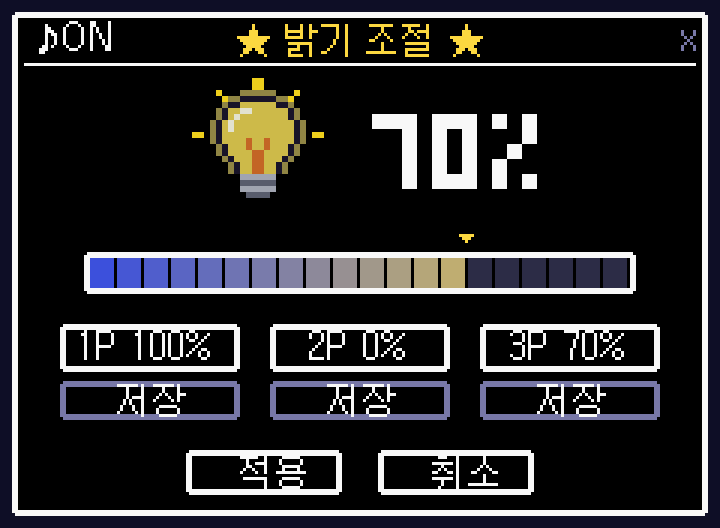
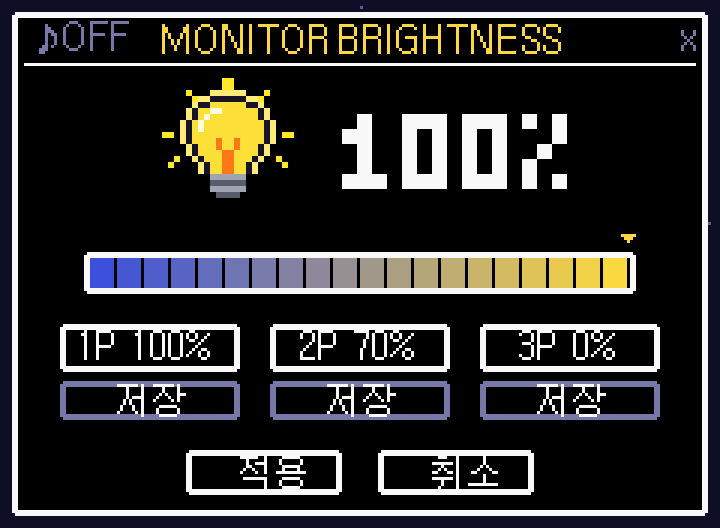
English program name, fix duplicate '(2)' shortcut names
- Shortcut, window title and menus now use 'Monitor Brightness'
- Remove leftover pinned shortcuts Windows keeps after unpinning, so re-pinning keeps the proper name
- Rename or de-duplicate desktop shortcuts; uninstall removes every copy

diff --git a/README.md b/README.md
@@ -50,7 +50,7 @@
 ### 설치
 1. 이 페이지 위쪽의 **Code → Download ZIP**을 눌러 내려받은 뒤, 원하는 폴더에 압축을 푸세요.
 2. 폴더 안의 **`install.bat`**을 더블클릭하세요.
-3. 바탕화면에 생긴 **"밝기 전환"** 아이콘을 더블클릭하면 창이 열려요.
+3. 바탕화면에 생긴 **"Monitor Brightness"** 아이콘을 더블클릭하면 창이 열려요.
 4. (선택) 아이콘을 우클릭한 뒤 **작업 표시줄에 고정**하고 창을 한 번 열었다 닫으면, 작업표시줄 우클릭 빠른 설정이 생겨요.
 
 > 설치한 뒤에는 폴더를 옮기지 마세요. 옮겼다면 `install.bat`을 다시 실행하세요.
@@ -98,7 +98,7 @@
 ### Install
 1. Click **Code → Download ZIP** at the top of this page and extract it to any folder.
 2. Double-click **`install.bat`** in that folder.
-3. Double-click the new **"밝기 전환"** (Brightness) icon on your desktop.
+3. Double-click the new **"Monitor Brightness"** icon on your desktop.
 4. (Optional) Right-click the icon → **Pin to taskbar**, then open and close the window once to enable the taskbar quick presets.
 
 > Don't move the folder after installing. If you do, run `install.bat` again.
